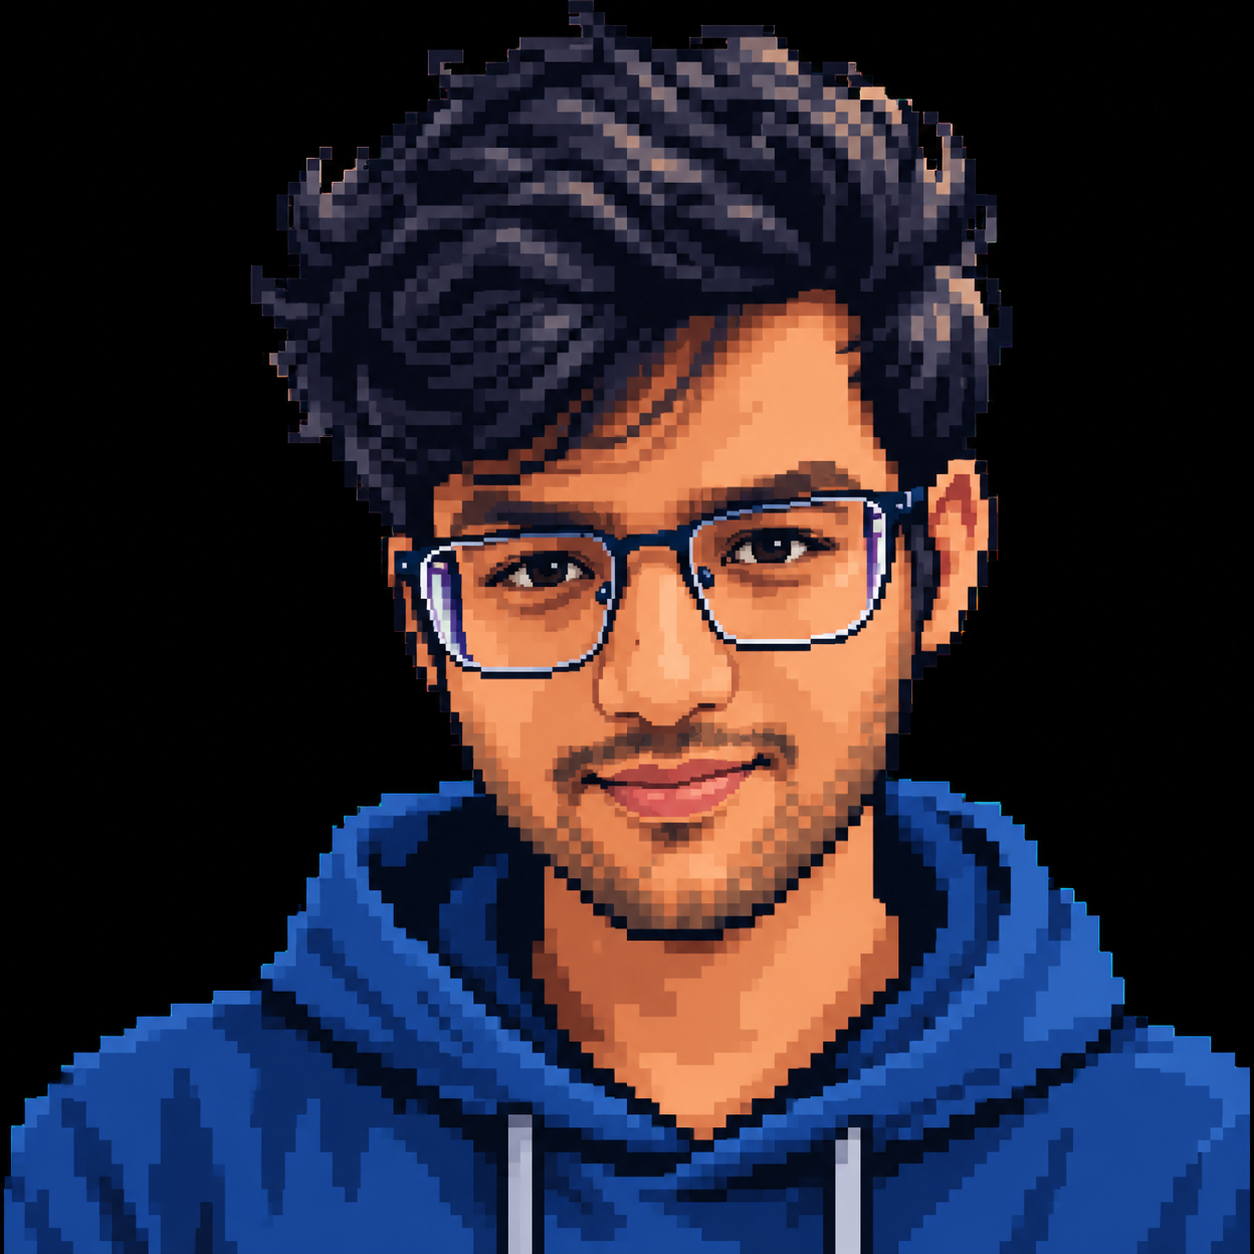
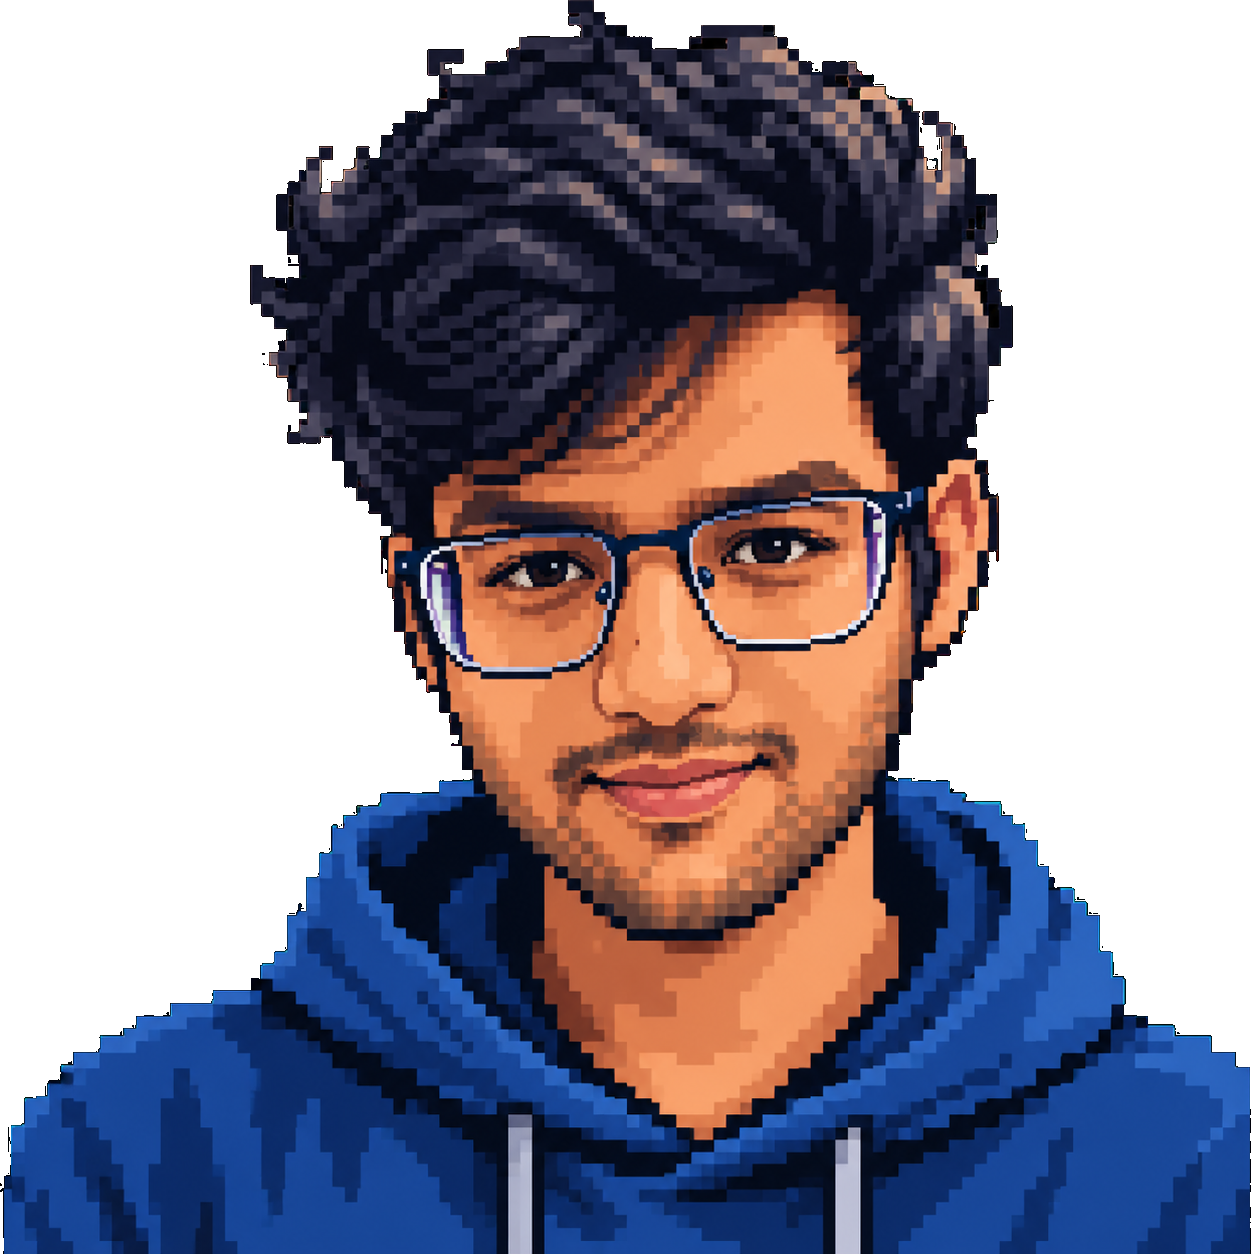
Fix running animation loop and remove desktop watermark text on bottom right

diff --git a/src/components/krishna-exe/KrishnaContext.tsx b/src/components/krishna-exe/KrishnaContext.tsx
@@ -7,7 +7,6 @@ import { STATE_PRIORITIES } from "./animation-map";
 const KrishnaContext = createContext<KrishnaContextValue | null>(null);
 
 const INACTIVITY_TIMEOUT_MS = 40000; // 40 seconds of no interaction -> sleep
-const PERIODIC_RUN_INTERVAL_MS = 14000; // Periodically run left & right every 14 seconds
 
 export function KrishnaProvider({ children }: { children: ReactNode }) {
   const [ambientState, setAmbientStateInternal] = useState<KrishnaState>("idle");
@@ -15,44 +14,33 @@ export function KrishnaProvider({ children }: { children: ReactNode }) {
   const [bubbleText, setBubbleText] = useState<string | null>(null);
   const [isSleeping, setIsSleeping] = useState(false);
   const [isWalking, setIsWalking] = useState(false);
-  const [walkingDir, setWalkingDir] = useState<"walk_left" | "walk_right">("walk_right");
+  const [walkingDir, setWalkingDir] = useState<"walk_left" | "walk_right">("walk_left");
 
-  // Position state: default near bottom right of desktop floor (above 42px taskbar)
+  // Position state: x = distance in px from left edge, y = distance from bottom
   const [position, setPosition] = useState<KrishnaPosition>({
-    x: 0, // 0 until client calculates window width
-    y: 54, // px above bottom of screen
+    x: 800, // initialized safely on client mount
+    y: 52,
     facing: "left",
   });
 
-  const emoteTimerRef = useRef<NodeJS.Timeout | null>(null);
-  const bubbleTimerRef = useRef<NodeJS.Timeout | null>(null);
-  const inactivityTimerRef = useRef<NodeJS.Timeout | null>(null);
-  const walkAnimRef = useRef<number | null>(null);
+  // Refs for access in timers without resetting intervals
   const posRef = useRef(position);
   posRef.current = position;
 
-  // Initialize position on client mount
-  useEffect(() => {
-    if (typeof window !== "undefined") {
-      const initialX = Math.max(160, window.innerWidth - 220);
-      setPosition({ x: initialX, y: 54, facing: "left" });
-    }
+  const isWalkingRef = useRef(false);
+  isWalkingRef.current = isWalking;
 
-    const handleResize = () => {
-      if (typeof window !== "undefined") {
-        setPosition((prev) => {
-          const maxX = Math.max(160, window.innerWidth - 220);
-          if (prev.x > maxX || prev.x === 0) {
-            return { ...prev, x: maxX };
-          }
-          return prev;
-        });
-      }
-    };
+  const temporaryEmoteRef = useRef<KrishnaState | null>(null);
+  temporaryEmoteRef.current = temporaryEmote;
 
-    window.addEventListener("resize", handleResize);
-    return () => window.removeEventListener("resize", handleResize);
-  }, []);
+  const isSleepingRef = useRef(false);
+  isSleepingRef.current = isSleeping;
+
+  const walkAnimRef = useRef<number | null>(null);
+  const patrolTimerRef = useRef<NodeJS.Timeout | null>(null);
+  const emoteTimerRef = useRef<NodeJS.Timeout | null>(null);
+  const bubbleTimerRef = useRef<NodeJS.Timeout | null>(null);
+  const inactivityTimerRef = useRef<NodeJS.Timeout | null>(null);
 
   // Active state calculated via priority
   const currentState: KrishnaState = (() => {
@@ -64,11 +52,11 @@ export function KrishnaProvider({ children }: { children: ReactNode }) {
 
   // Wake up handler
   const wakeUp = useCallback(() => {
-    if (isSleeping) {
+    if (isSleepingRef.current) {
       setIsSleeping(false);
       setBubbleText(null);
     }
-  }, [isSleeping]);
+  }, []);
 
   // Reset inactivity timer on any user interaction
   const resetInactivityTimer = useCallback(() => {
@@ -98,25 +86,22 @@ export function KrishnaProvider({ children }: { children: ReactNode }) {
     };
   }, [resetInactivityTimer]);
 
-  // Stop any active walking animation
-  const stopWalking = useCallback(() => {
-    if (walkAnimRef.current) {
-      cancelAnimationFrame(walkAnimRef.current);
-      walkAnimRef.current = null;
-    }
-    setIsWalking(false);
-  }, []);
-
   // Request temporary emote with priority checking
   const requestEmote = useCallback(
     (emote: KrishnaState, durationMs = 2800, speechText?: string) => {
       wakeUp();
-      stopWalking(); // If running when an emote is triggered, stop and play emote
+
+      // Stop running immediately if an emote is triggered
+      if (walkAnimRef.current) {
+        cancelAnimationFrame(walkAnimRef.current);
+        walkAnimRef.current = null;
+      }
+      setIsWalking(false);
+      isWalkingRef.current = false;
 
       const newPriority = STATE_PRIORITIES[emote] ?? 2;
       const currentPriority = temporaryEmote ? (STATE_PRIORITIES[temporaryEmote] ?? 0) : 0;
 
-      // Higher or equal priority overrides currently playing emote
       if (newPriority >= currentPriority) {
         if (emoteTimerRef.current) clearTimeout(emoteTimerRef.current);
 
@@ -134,7 +119,7 @@ export function KrishnaProvider({ children }: { children: ReactNode }) {
         }, durationMs);
       }
     },
-    [temporaryEmote, wakeUp, stopWalking]
+    [temporaryEmote, wakeUp]
   );
 
   // Set ambient state
@@ -146,101 +131,128 @@ export function KrishnaProvider({ children }: { children: ReactNode }) {
     [wakeUp]
   );
 
-  // Smooth bounded running / walking across screen
+  // Smooth bounded running across screen
   const walkTo = useCallback(
-    (targetX: number) => {
-      wakeUp();
+    (targetX: number, onArrival?: () => void) => {
+      if (typeof window === "undefined") return;
 
-      // Check if prefers reduced motion
-      if (typeof window !== "undefined" && window.matchMedia("(prefers-reduced-motion: reduce)").matches) {
-        setPosition((prev) => ({ ...prev, x: targetX }));
+      const startX = posRef.current.x;
+      const delta = targetX - startX;
+      if (Math.abs(delta) < 20) {
+        if (onArrival) onArrival();
         return;
       }
 
-      if (typeof window === "undefined") return;
-
-      const currentX = posRef.current.x || (window.innerWidth - 220);
-      const minX = 160; // Keep clear of desktop icons column
-      const maxX = Math.max(minX + 80, window.innerWidth - 200);
-      const clampedTargetX = Math.max(minX, Math.min(maxX, targetX));
-
-      const delta = clampedTargetX - currentX;
-      if (Math.abs(delta) < 25) return; // already in target area
-
-      const dir = delta > 0 ? "walk_right" : "walk_left";
+      const dir: "walk_left" | "walk_right" = delta > 0 ? "walk_right" : "walk_left";
       setWalkingDir(dir);
       setIsWalking(true);
+      isWalkingRef.current = true;
       setPosition((prev) => ({ ...prev, facing: delta > 0 ? "right" : "left" }));
 
-      // Running speed: ~220px per second for an active, spirited run
+      // Running speed: ~220px per second
       const speed = 220;
-      const duration = Math.min(3600, Math.max(800, (Math.abs(delta) / speed) * 1000));
+      const duration = Math.min(4500, Math.max(800, (Math.abs(delta) / speed) * 1000));
       const startTime = performance.now();
 
       const step = (now: number) => {
+        // If an emote starts, abort running
+        if (temporaryEmoteRef.current) {
+          setIsWalking(false);
+          isWalkingRef.current = false;
+          walkAnimRef.current = null;
+          return;
+        }
+
         const elapsed = now - startTime;
         const progress = Math.min(1, elapsed / duration);
+        const currentX = startX + delta * progress;
 
-        const currentProgX = currentX + delta * progress;
-        setPosition((prev) => ({ ...prev, x: Math.round(currentProgX) }));
+        setPosition((prev) => ({ ...prev, x: Math.round(currentX) }));
 
         if (progress < 1) {
           walkAnimRef.current = requestAnimationFrame(step);
         } else {
           setIsWalking(false);
+          isWalkingRef.current = false;
           walkAnimRef.current = null;
+          if (onArrival) onArrival();
         }
       };
 
       if (walkAnimRef.current) cancelAnimationFrame(walkAnimRef.current);
       walkAnimRef.current = requestAnimationFrame(step);
     },
-    [wakeUp]
+    []
   );
 
-  // PERIODIC RUNNING: Periodically run to left and right across desktop
+  // PERIODIC RUNNING: Continuously runs back and forth between left and right sides
   useEffect(() => {
-    // If reduced motion is preferred, do not auto-run
-    if (typeof window !== "undefined" && window.matchMedia("(prefers-reduced-motion: reduce)").matches) {
-      return;
-    }
+    if (typeof window === "undefined") return;
 
-    const periodicInterval = setInterval(() => {
-      // Do not run if character is sleeping, currently running, or playing a temporary emote
-      if (isSleeping || isWalking || temporaryEmote) {
+    // Start on the right side of the screen
+    const initialRightX = Math.max(200, window.innerWidth - 220);
+    setPosition({ x: initialRightX, y: 52, facing: "left" });
+    posRef.current = { x: initialRightX, y: 52, facing: "left" };
+
+    let isRunningToLeft = true;
+
+    const runPatrolStep = () => {
+      // If sleeping or in temporary emote, retry shortly
+      if (isSleepingRef.current || temporaryEmoteRef.current || isWalkingRef.current) {
+        patrolTimerRef.current = setTimeout(runPatrolStep, 2000);
         return;
       }
 
-      if (typeof window === "undefined") return;
+      const minX = window.innerWidth < 768 ? 40 : 180;
+      const maxX = Math.max(minX + 80, window.innerWidth - (window.innerWidth < 768 ? 100 : 220));
 
-      const currentX = posRef.current.x || (window.innerWidth - 220);
-      const midPoint = window.innerWidth / 2;
-      const minX = 180;
-      const maxX = Math.max(minX + 100, window.innerWidth - 240);
-
-      // If currently on the right half, run over to the left side!
-      // If currently on the left half, run over to the right side!
       let targetX: number;
-      if (currentX > midPoint) {
-        // Run to the left zone (between 180px and 260px)
-        targetX = Math.round(minX + Math.random() * 80);
+      if (isRunningToLeft) {
+        targetX = Math.round(minX + Math.random() * 50);
+        isRunningToLeft = false;
       } else {
-        // Run to the right zone (near window.innerWidth - 240px)
-        targetX = Math.round(maxX - Math.random() * 80);
+        targetX = Math.round(maxX - Math.random() * 50);
+        isRunningToLeft = true;
       }
 
-      walkTo(targetX);
-    }, PERIODIC_RUN_INTERVAL_MS);
+      walkTo(targetX, () => {
+        // Once arrived, rest for ~5 to 7 seconds before next run
+        const restDuration = 5000 + Math.random() * 2500;
+        patrolTimerRef.current = setTimeout(runPatrolStep, restDuration);
+      });
+    };
 
-    return () => clearInterval(periodicInterval);
-  }, [isSleeping, isWalking, temporaryEmote, walkTo]);
+    // Begin first running sequence 2.5 seconds after desktop loads!
+    patrolTimerRef.current = setTimeout(runPatrolStep, 2500);
 
-  // Cleanup on unmount
+    const handleResize = () => {
+      if (typeof window !== "undefined") {
+        setPosition((prev) => {
+          const maxX = Math.max(160, window.innerWidth - 220);
+          if (prev.x > maxX) {
+            return { ...prev, x: maxX };
+          }
+          return prev;
+        });
+      }
+    };
+
+    window.addEventListener("resize", handleResize);
+
+    return () => {
+      window.removeEventListener("resize", handleResize);
+      if (patrolTimerRef.current) clearTimeout(patrolTimerRef.current);
+      if (walkAnimRef.current) cancelAnimationFrame(walkAnimRef.current);
+    };
+  }, [walkTo]);
+
+  // Cleanup timers on unmount
   useEffect(() => {
     return () => {
       if (emoteTimerRef.current) clearTimeout(emoteTimerRef.current);
       if (bubbleTimerRef.current) clearTimeout(bubbleTimerRef.current);
       if (inactivityTimerRef.current) clearTimeout(inactivityTimerRef.current);
+      if (patrolTimerRef.current) clearTimeout(patrolTimerRef.current);
       if (walkAnimRef.current) cancelAnimationFrame(walkAnimRef.current);
     };
   }, []);

diff --git a/src/components/krishna-exe/KrishnaExe.tsx b/src/components/krishna-exe/KrishnaExe.tsx
@@ -79,10 +79,15 @@ export default function KrishnaExe() {
   const currentFrameSrc = currentConfig.frames[frameIndex] || currentConfig.frames[0];
   const ratioClass = currentConfig.aspectRatio === "1:1" ? "ratio-1-1" : "ratio-2-3";
 
-  // Dynamic style for positioning
+  // Dynamic style for positioning using hardware-accelerated translate3d
   const containerStyle: React.CSSProperties = {
+    position: "fixed",
+    left: 0,
     bottom: `${position.y}px`,
-    ...(position.x > 0 ? { left: `${position.x}px` } : { right: "32px" }),
+    transform: `translate3d(${position.x}px, 0, 0)`,
+    willChange: "transform",
+    zIndex: 4,
+    pointerEvents: "none",
   };
 
   return (
@@ -112,11 +117,6 @@ export default function KrishnaExe() {
           className="krishna-sprite"
           draggable={false}
         />
-
-        {/* Small PID indicator on hover */}
-        <span className="krishna-pid-pill">
-          krishna.exe : {isSleeping ? "sleeping" : currentState}
-        </span>
       </div>
     </div>
   );

diff --git a/src/components/os/Desktop.tsx b/src/components/os/Desktop.tsx
@@ -218,11 +218,7 @@ function DesktopInner() {
     <main className="screen" id="krishnaos-desktop">
       {phase === "boot" && <BootScreen onDone={finishBoot} />}
 
-      {/* Desktop Background Watermark */}
-      <div className="desktop-watermark" aria-hidden="true">
-        <span className="watermark-logo">Krishna<b>OS</b></span>
-        <span className="watermark-sub">VIT Vellore • Developer Workstation</span>
-      </div>
+
 
       {/* Desktop Icons Grid */}
       <div className="icons" role="region" aria-label="Desktop Icons">
